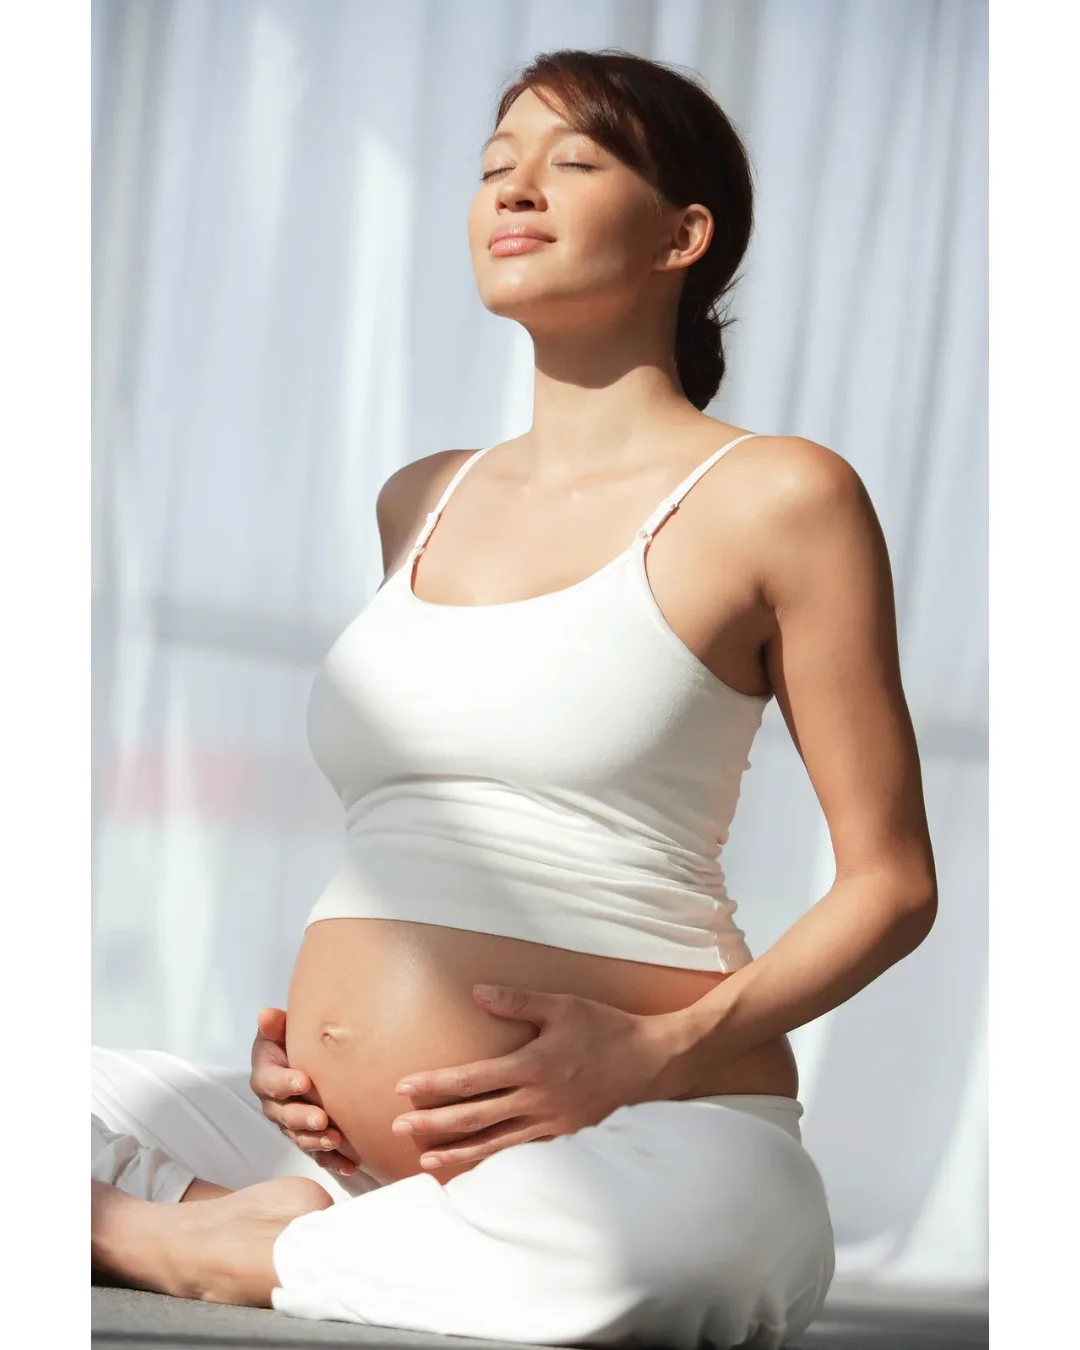
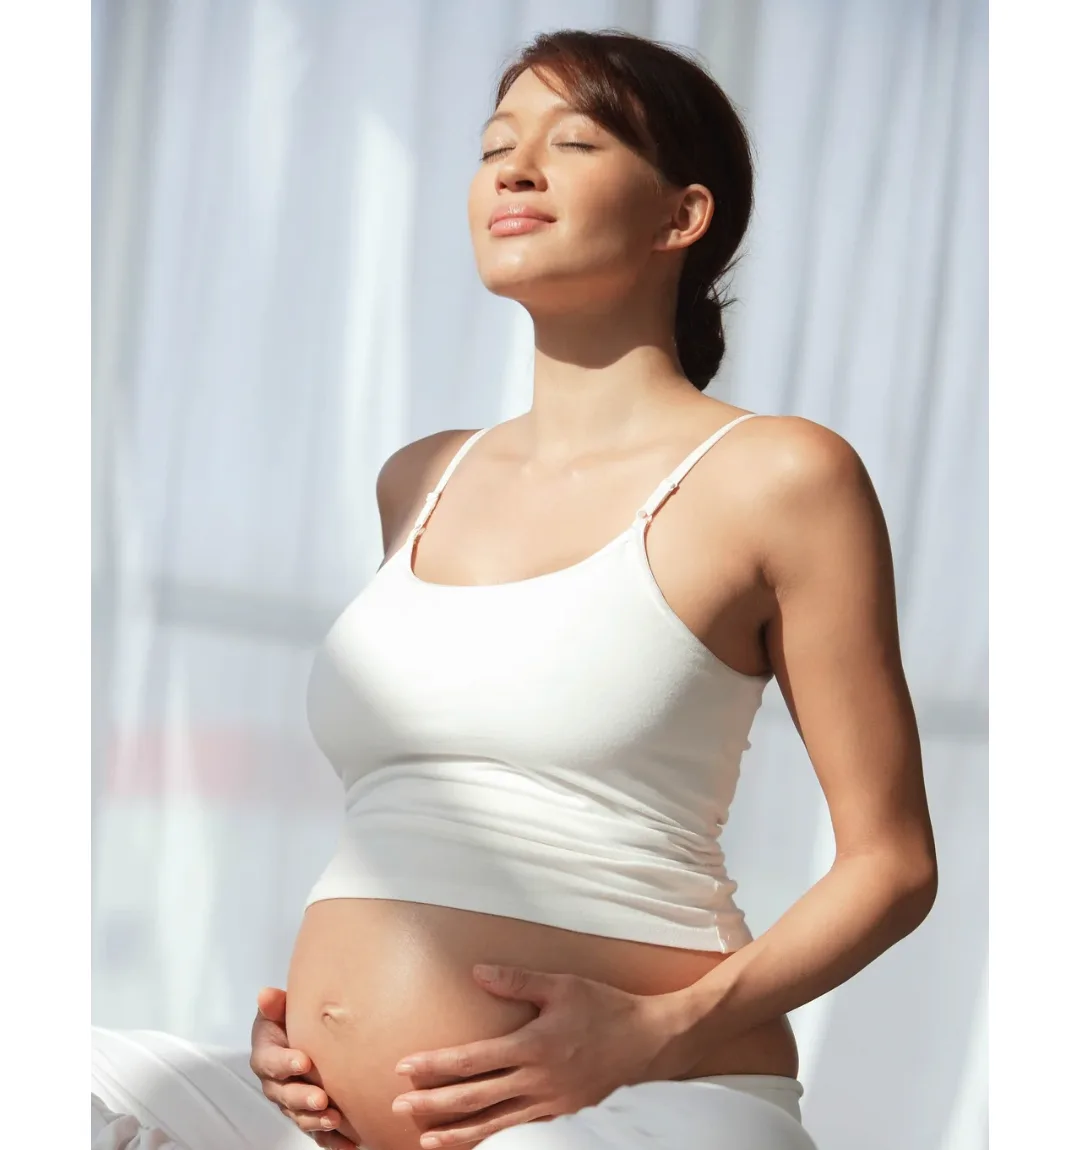
Recrop Bloom photo to hair-through-belly framing
The full portrait photo, shown with object-contain, still read oddly
in the wide stage panel because the source image included the legs
and floor below the belly. Recrop to hair, face, neck, chest and belly
only, so the panel shows that framing in full without empty space
taken up by the legs.

diff --git a/content/stages.ts b/content/stages.ts
@@ -44,7 +44,8 @@ export const stageDetails: readonly Stage[] = [
     /*
      * Pregnant woman, eyes closed, in white, sitting cross-legged in soft
      * light. Supplied directly by the team (2026-08-29); source not
-     * confirmed.
+     * confirmed. Cropped to hair-through-belly, legs excluded, so the
+     * stage panel shows the whole framing without cutting off the face.
      */
     image: '/images/stage-photo-bloom.webp',
   },
